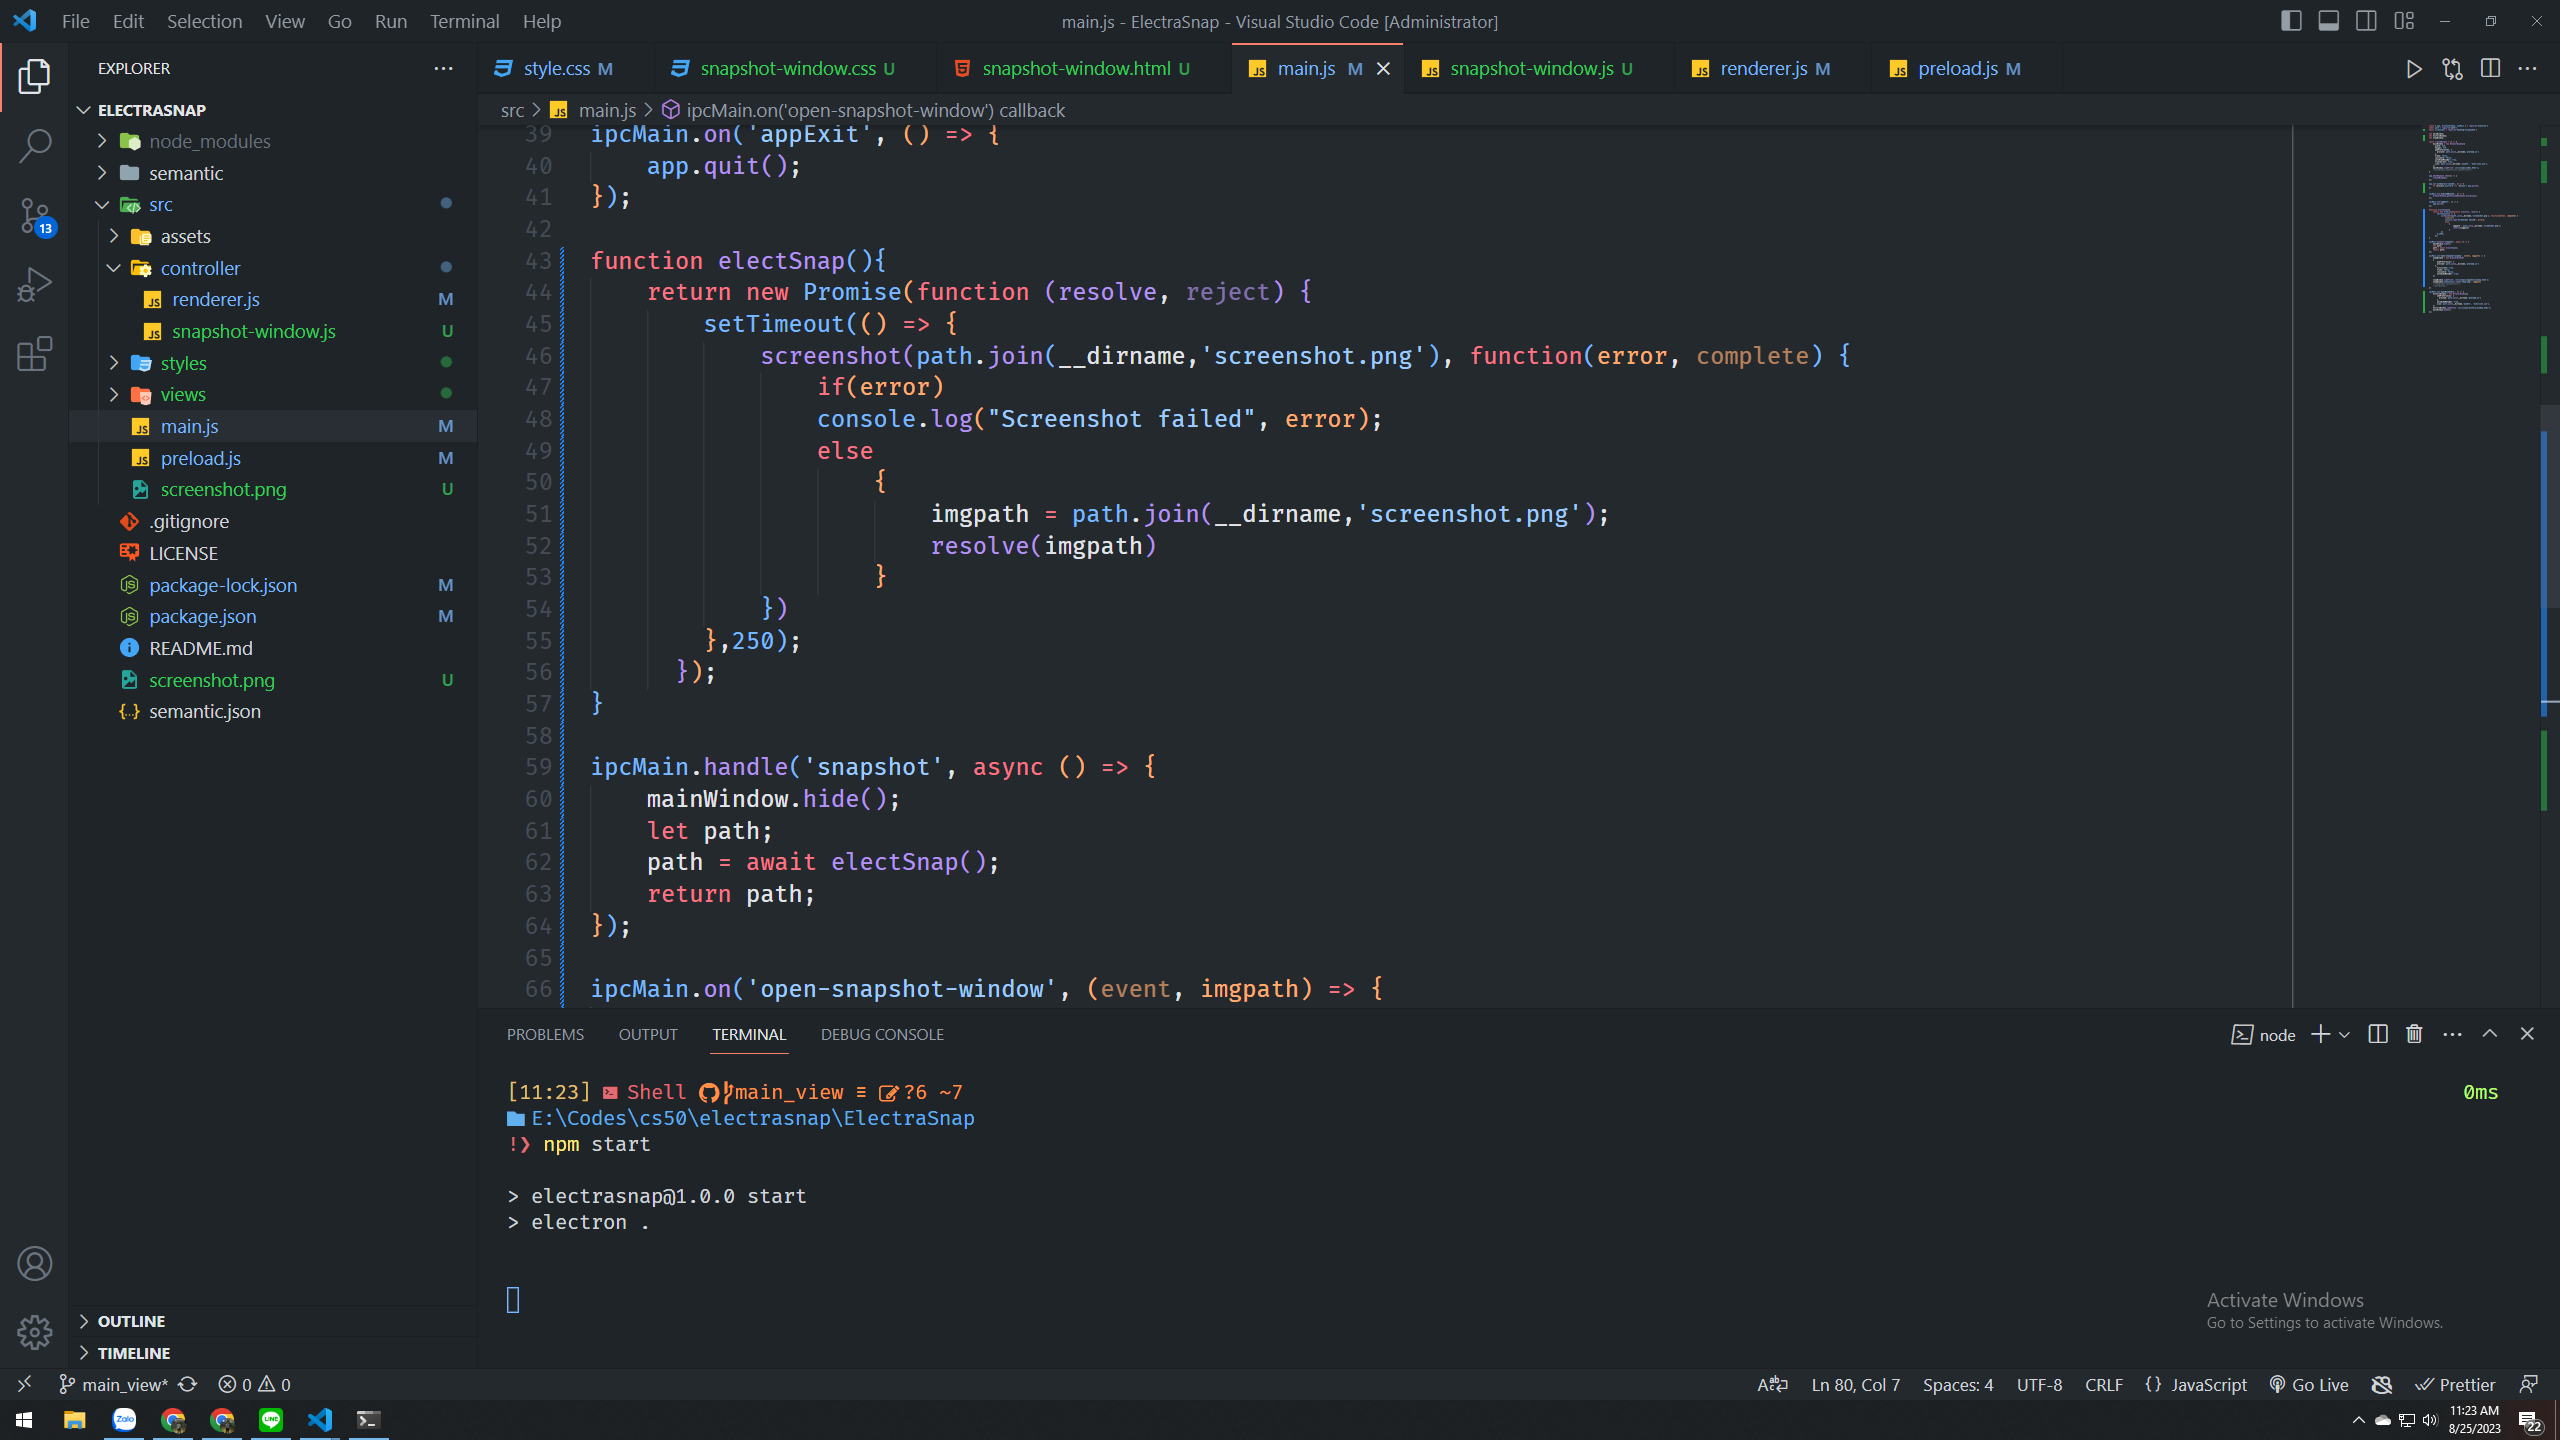
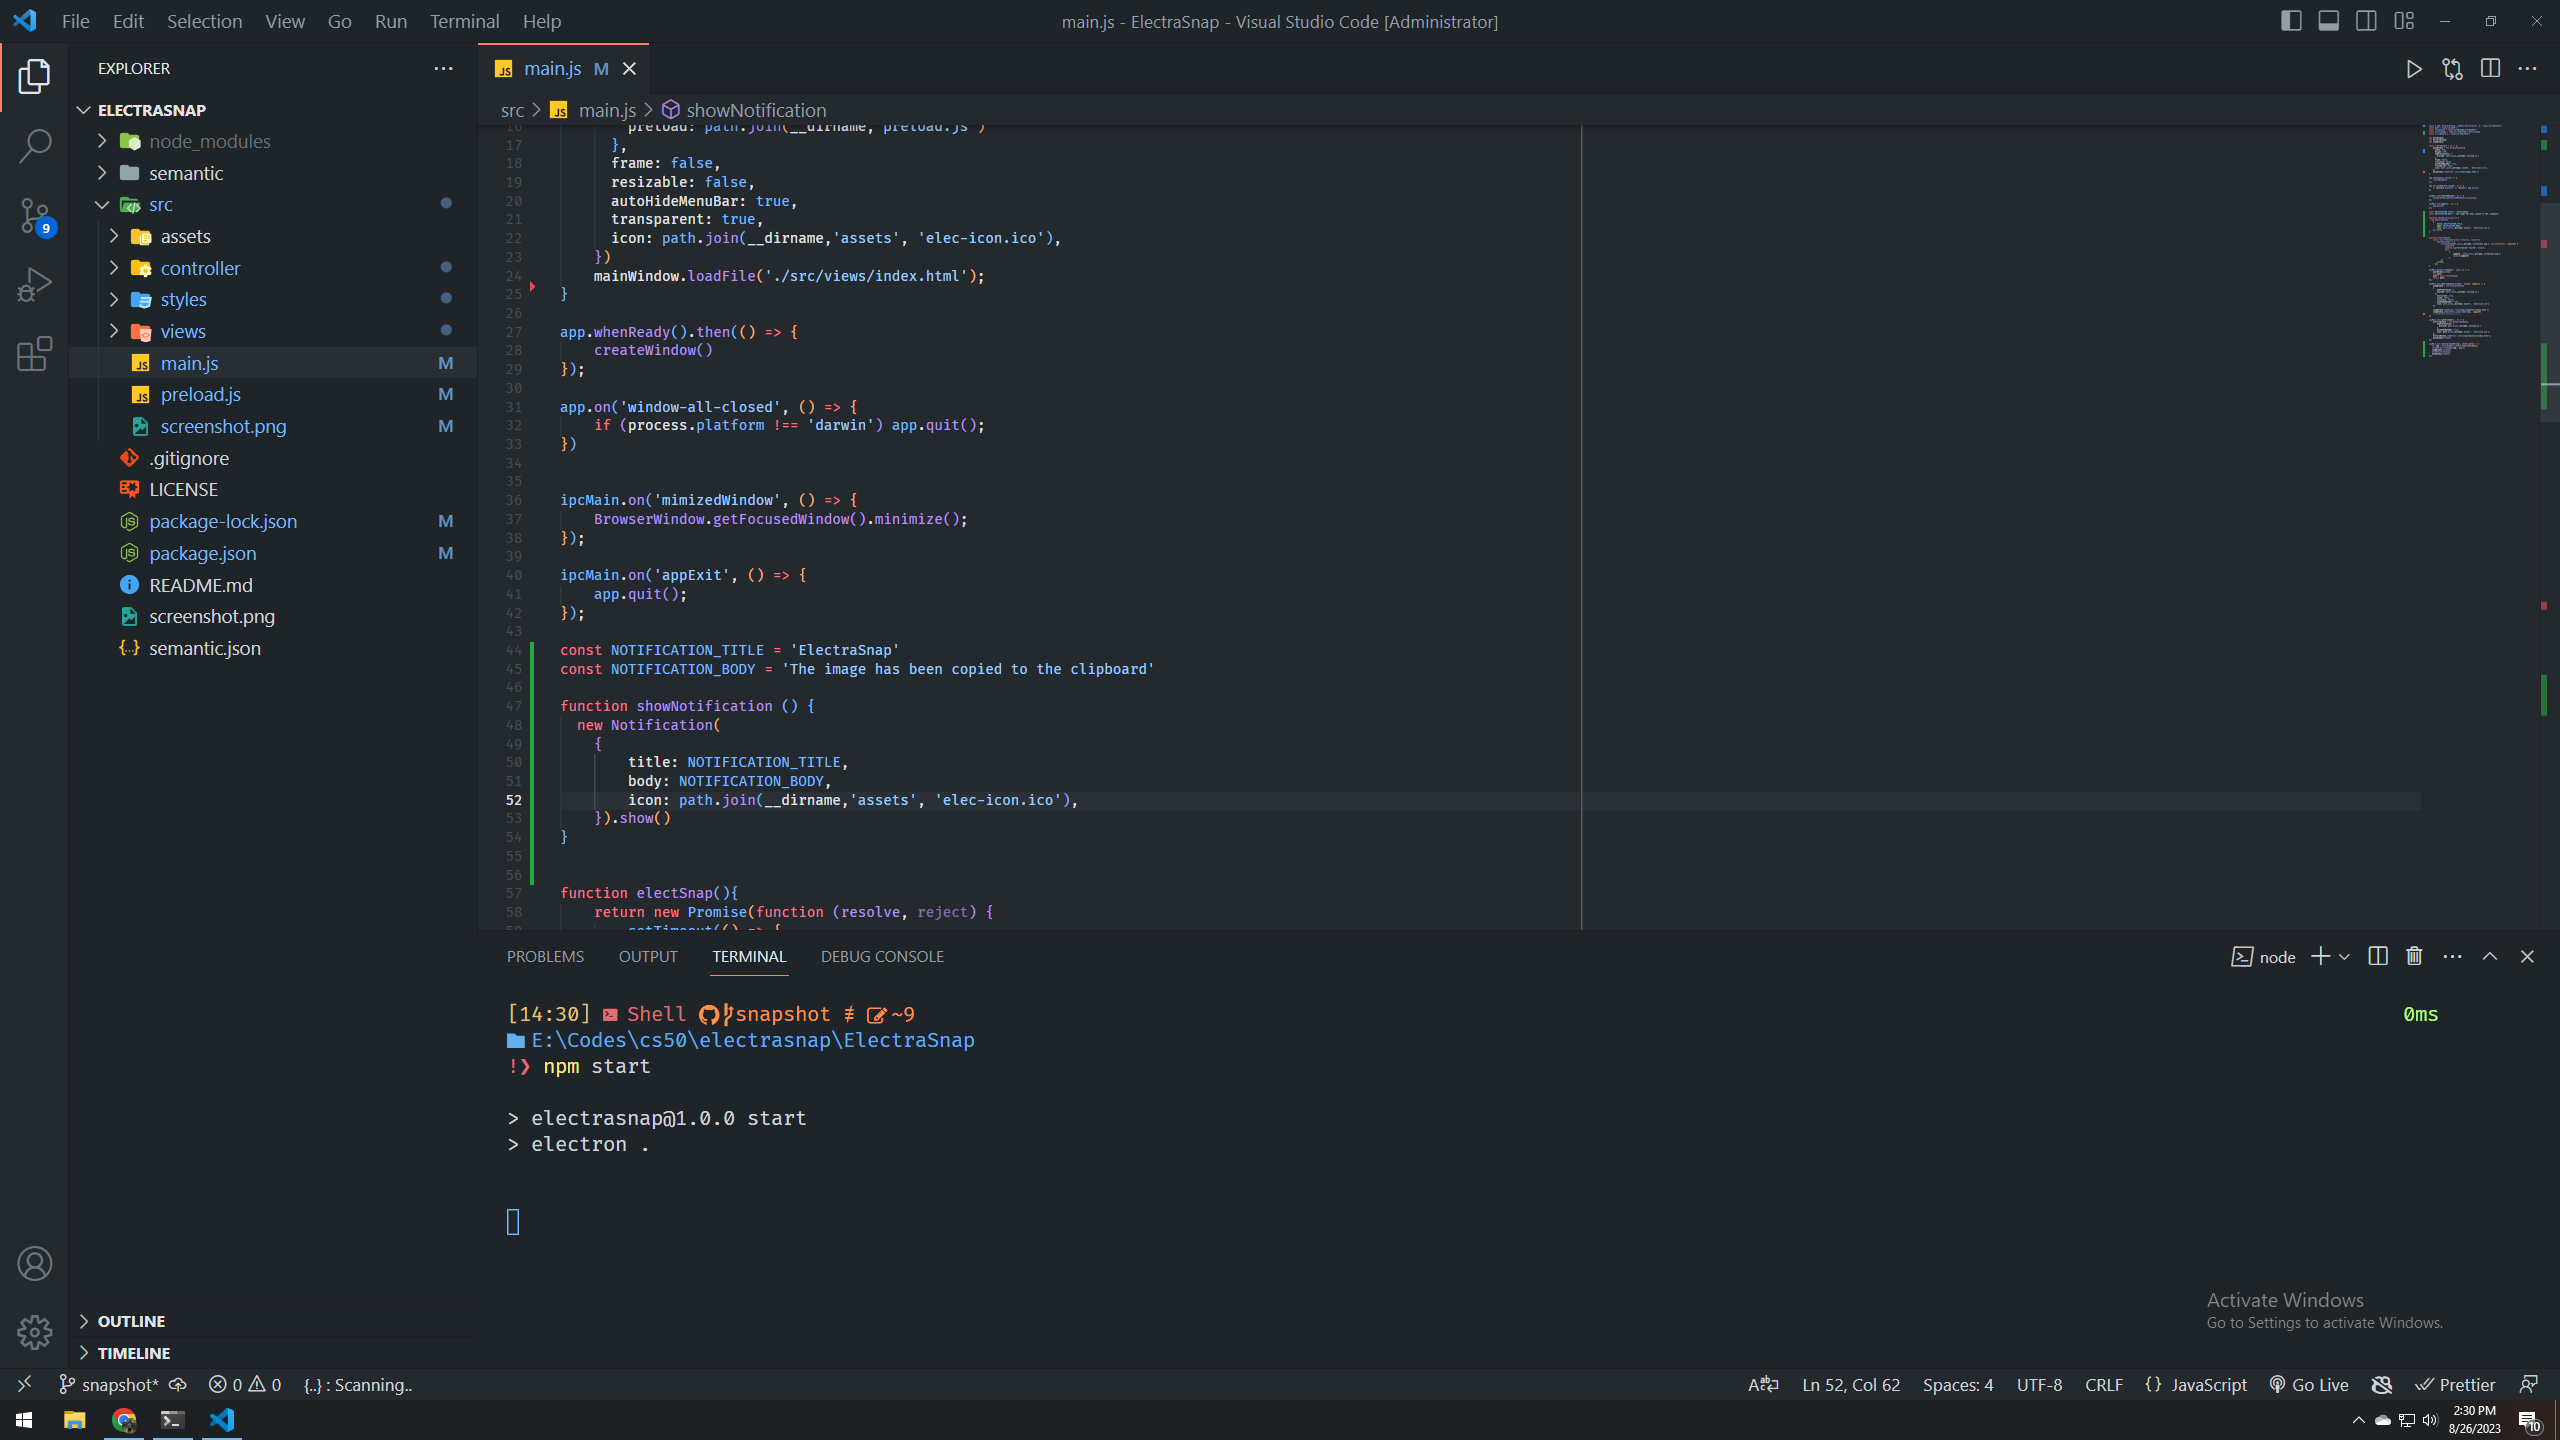
add snapshot feature

diff --git a/src/main.js b/src/main.js
@@ -1,6 +1,8 @@
-const { app, BrowserWindow, ipcMain } = require('electron')
+const { app, BrowserWindow, ipcMain,Notification  } = require('electron')
 const path = require('path') 
 const screenshot = require('desktop-screenshot')
+const nativeImage = require('electron').nativeImage
+const { clipboard } = require('electron')
 
 let mainWindow;
 let historyWindow;
@@ -8,8 +10,8 @@ let snapWindow;
 
 const createWindow = () => {
     mainWindow = new BrowserWindow({
-      width: 478,
-      height: 279, 
+      width: 378,
+      height: 179, 
       webPreferences: {
         preload: path.join(__dirname,'preload.js')
       },
@@ -20,7 +22,6 @@ const createWindow = () => {
       icon: path.join(__dirname,'assets', 'elec-icon.ico'),
     })
     mainWindow.loadFile('./src/views/index.html');
-    //mainWindow.webContents.openDevTools()
 }
 
 app.whenReady().then(() => {
@@ -39,6 +40,19 @@ ipcMain.on('mimizedWindow', () => {
 ipcMain.on('appExit', () => {
     app.quit();
 });
+
+const NOTIFICATION_TITLE = 'ElectraSnap'
+const NOTIFICATION_BODY = 'The image has been copied to the clipboard'
+
+function showNotification () {
+  new Notification(
+    { 
+        title: NOTIFICATION_TITLE, 
+        body: NOTIFICATION_BODY,
+        icon: path.join(__dirname,'assets', 'elec-icon.ico'),
+    }).show()
+}
+
 
 function electSnap(){
     return new Promise(function (resolve, reject) {
@@ -79,7 +93,6 @@ ipcMain.on('open-snapshot-window', (event, imgpath) => {
     snapWindow.loadFile('./src/views/snapshot-window.html');
     snapWindow.webContents.send('show-img', imgpath)
     //snapWindow.openDevTools();
-    //mainWindow.s
 })
 
 ipcMain.on('openWindowHis', () => {
@@ -92,4 +105,12 @@ ipcMain.on('openWindowHis', () => {
     })
     historyWindow.loadFile('./src/views/history-window.html');
     mainWindow.hide();
+});
+
+ipcMain.on('receive-base64-img', (event,data) => {
+   var img = nativeImage.createFromDataURL(data);
+   clipboard.writeImage(img, 'png');
+   snapWindow.close();
+   showNotification();
+   mainWindow.show();
 });

diff --git a/src/views/snapshot-window.html b/src/views/snapshot-window.html
@@ -3,12 +3,16 @@
 <head>
     <meta charset="UTF-8">
     <meta name="viewport" content="width=device-width,
-    initial-scale=1.0">
-    <link rel="stylesheet" type="text/css" href="../styles/snapshot-window.css">
+    initial-scale=1.0">   
+    <link rel="stylesheet" type="text/css" href="../styles/snapshot-window.css"> 
+    <link rel="stylesheet" type="text/css" href="../../node_modules/cropperjs/dist/cropper.min.css">
     <title>Document</title>
 </head>
 <body>
-    <img id="img" src="" alt="">    
-    <script src="../controller/snapshot-window.js"></script>
+    <img id="img" src="../screenshot.png" alt="">    
+    <section id="overlay"></section>
+    <script src="../../node_modules/cropperjs/dist/cropper.min.js"></script>
+    <script src="../controller/snapshot-window.js"></script>   
 </body>
 </html>
+

diff --git a/src/controller/snapshot-window.js b/src/controller/snapshot-window.js
@@ -1,5 +1,21 @@
 const img = document.getElementById('img')
+const overlay = document.getElementById('overlay')
 
 window.electronAPI.showImg((event, value) => {
     img.src = value;
+    console.log(value)
 })
+
+const copper = new Cropper(img, {
+    aspectRatio: 0,
+    autoCrop: false,
+    modal: true,
+    ImageSmoothingQuality: 'high'
+})
+
+img.addEventListener('cropend', (event) => {
+    console.log(event.detail.originalEvent);
+    console.log(event.detail.action);
+    var dataCropped = copper.getCroppedCanvas().toDataURL('image/png');
+    window.electronAPI.receiveBase64Img(dataCropped);
+});

diff --git a/src/preload.js b/src/preload.js
@@ -6,5 +6,6 @@ contextBridge.exposeInMainWorld('electronAPI', {
   snapshot: () => ipcRenderer.invoke('snapshot'),
   openSnapshotWindow: (imgPath) => ipcRenderer.send('open-snapshot-window', imgPath),
   openWindowHis: () => ipcRenderer.send('openWindowHis'),
-  showImg: (callback) => ipcRenderer.on('show-img', callback)
+  showImg: (callback) => ipcRenderer.on('show-img', callback),
+  receiveBase64Img: (dataBase64) => ipcRenderer.send('receive-base64-img',dataBase64),
 })

diff --git a/src/views/index.html b/src/views/index.html
@@ -33,12 +33,6 @@
       Snapshot
     </button>
 
-    <!-- Button History -->
-    <button id="btn-history" class="ui brown button container-item">
-      <i class="history icon"></i>
-      Historys
-    </button>
-
    </section>   
    <script src="../controller/renderer.js"></script>
   </body>

diff --git a/src/styles/snapshot-window.css b/src/styles/snapshot-window.css
@@ -13,3 +13,13 @@ body{
     padding: 0px;
     margin: 0px;
 }
+
+#overlay{
+    position: absolute;
+    width: 100%;
+    height: 100vh;
+    padding: 0px;
+    margin: 0px;
+    background: #FFF;
+    opacity: 15%;
+}
